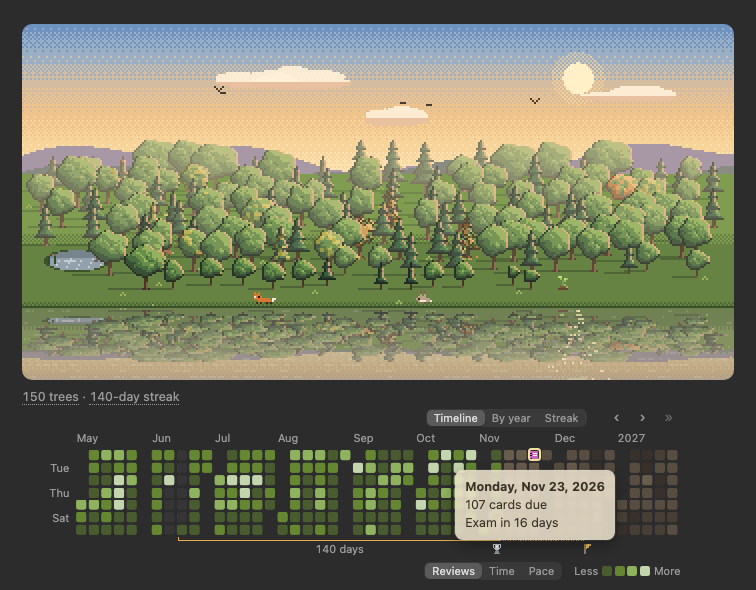
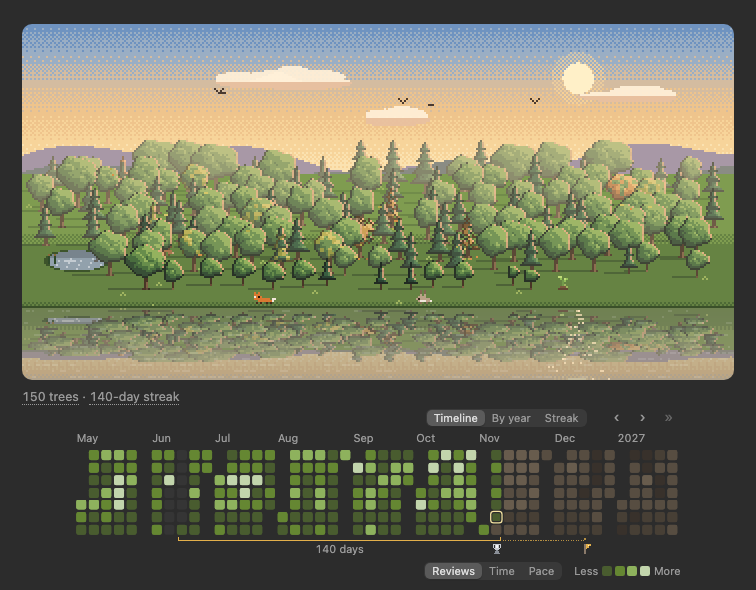
docs: update docs

Changed region(s): [[0.578, 0.7627, 0.8214, 0.9458], [0.0608, 0.7932, 0.0913, 0.8847]]

diff --git a/docs/ankiweb.html b/docs/ankiweb.html
@@ -2,7 +2,7 @@
 
 <b>To install:</b> in Anki, Tools › Add-ons › Get Add-ons, and paste the code <b>1255432496</b>.
 
-<div><img src="https://raw.githubusercontent.com/baraklevy20/memory-forest/main/docs/panel.png" alt="The forest by the lake at golden hour, with its study heatmap under it: days studied in green, a silver streak trophy, a goal flag, an exam marker with its tooltip open (Exam in 16 days), and cards coming due in brown"></div>
+<div><img src="https://raw.githubusercontent.com/baraklevy20/memory-forest/main/docs/panel.png" alt="The forest by the lake at golden hour, with its study heatmap under it: days studied in green, a silver streak trophy, a goal flag, and cards coming due in brown"></div>
 <div>&nbsp;</div>
 <b>How the forest grows</b>
 
@@ -17,6 +17,8 @@ So the forest is a picture of what you know: its size is how much you have learn
 <b>Your study heatmap</b>
 
 Your study days, streaks and upcoming reviews, in your scenery's colours. Hover for details; click a day to open its cards.
+
+<div><img src="https://raw.githubusercontent.com/baraklevy20/memory-forest/main/docs/heatmap_features.png" alt="Six parts of the heatmap: days selected with Shift-click and their trees lit up in the forest, Streak view with one streak across three years, the days shaded by pace, the day a rabbit came, the flag for the next goal, and an exam's tooltip counting down the days to it"></div>
 
 <ul>
 <li><b>Views</b>: a rolling timeline, a full year, or your whole streak at once.</li>

diff --git a/dev/docs_pictures.py b/dev/docs_pictures.py
@@ -1,15 +1,22 @@
-"""Draw the docs' panel, heatmap and layout pictures, docs/panel.png, docs/heatmap_sceneries.png and
-docs/layout.png, from this copy's scripts in headless Chrome, then the grid GIFs (dev/docs_grids.py).
+"""Draw the docs' panel, heatmap and layout pictures, docs/panel.png, docs/heatmap_features.png,
+docs/heatmap_sceneries.png and docs/layout.png, from this copy's scripts in headless Chrome, then the grid GIFs (dev/docs_grids.py).
 Uses made-up history unless --collection is supplied.
 
     python3 dev/docs_pictures.py      (npm run docs-pictures)
     python3 dev/docs_pictures.py --only layout
+    python3 dev/docs_pictures.py --only features
     python3 dev/docs_pictures.py --collection /path/to/collection.anki2
 
-panel.png: the pages' first picture, the panel as Anki shows it: the forest by the lake, with the
-animals of its first year, and its heatmap under it, visible streak labels, the current streak's
-silver trophy, its next goal's flag, and an upcoming exam with its tooltip open (the countdown to it).
-heatmap_sceneries.png: one heatmap in five sceneries, each beside its picker picture, with
+panel.png: the pages' first picture, the panel as Anki shows it, kept basic: the forest by the lake,
+with the animals of its first year, and its heatmap under it, visible streak labels, the current
+streak's silver trophy and its next goal's flag; no tooltip open and no marked day (the feature
+sheet shows those).
+heatmap_features.png: the heatmap section's first picture, six labelled crops of the real panel, each
+showing a feature: days Shift-selected and their trees lit, Streak view (one unbroken streak of almost
+three years over its rows), the days shaded by pace with the shade's switch and key, the day an animal
+came, the goal's flag, and a marked exam's countdown. Always on its own made-up history
+(FEATURES_HISTORY, even with --collection): the crops need its long streak.
+heatmap_sceneries.png: under it, one heatmap in five sceneries, each beside its picker picture, with
 its current trophy and flag and no other streak markers.
 layout.png: Anki's deck list with a made-up Japanese deck (made up with --collection too), Chalkboard beside it
 on the right and the heatmap Full width under them (Layout: One beside), arranged by the add-on's own web/core.js AF.arrange, at
@@ -72,15 +79,17 @@ SCENERIES = tuple(key for key, _tiles, _view in ROWS)
 YEARS_AWAY = ("bear", "squirrel", "eagle", "cabin")
 
 
-def history() -> dict:
+def history(length: int | None = None, streaks: tuple | None = None) -> dict:
     """The calendar's made-up days: reviews, time and each day's median seconds an answer (so Pace is
-    there to pick, as in the add-on), oldest first, and the cards due ahead."""
+    there to pick, as in the add-on), oldest first, and the cards due ahead; `length` days of them
+    with `streaks` (HISTORY and STREAKS unless given)."""
+    length, streaks = length or HISTORY, streaks or STREAKS
     r = random.Random(SEED)
     today = dt.date.today()
     days, time, pace = [], [], []
     pr = random.Random(SEED + 1)  # (the paces' own: the days' reviews and the cards due stay as they were)
-    for ago in range(HISTORY - 1, -1, -1):
-        studied = any(a <= ago <= b for a, b in STREAKS) or (ago > STREAKS[0][1] + 10 and r.random() < SCATTER)
+    for ago in range(length - 1, -1, -1):
+        studied = any(a <= ago <= b for a, b in streaks) or (ago > streaks[0][1] + 10 and r.random() < SCATTER)
         if not studied:
             days.append(0)
             time.append(0)
@@ -103,7 +112,7 @@ def history() -> dict:
             base *= 3.2
         n = r.randint(1, 3) if r.random() < 0.08 else int(base * r.uniform(0.6, 1.4))
         due.append(max(1, n))
-    return {"start": (today - dt.timedelta(days=HISTORY - 1)).isoformat(), "days": days, "time": time, "answerTime": pace, "due": due}
+    return {"start": (today - dt.timedelta(days=length - 1)).isoformat(), "days": days, "time": time, "answerTime": pace, "due": due}
 
 
 REAL_DATA = None
@@ -261,16 +270,6 @@ for (const j of jobs) {
   await p.waitForSelector('.af-cal-canvas', { timeout: 15000 });
   await new Promise(r => setTimeout(r, 1500));
   const el = await p.$(j.shoot);
-  if (j.tipDays !== undefined) {
-    // (a day's tooltip open in the shot: that day by the keyboard, as page_check does, today and then
-    // a day on per press; the pointer's hover didn't last until the shot)
-    await p.evaluate(() => { document.body.classList.add('af-shot-tip'); document.querySelector('.af-cal-canvas:not(.af-cal-past-weeks)').focus(); });
-    await p.keyboard.press('Home');
-    for (let i = 0; i < j.tipDays; i++) await p.keyboard.press('ArrowDown');
-    await new Promise(r => setTimeout(r, 1200));
-    if (!(await p.evaluate(m => { const t = document.querySelector('.af-cal-tip'); return !!t && !t.hidden && t.textContent.includes(m); }, j.tipHas)))
-      throw new Error('no tooltip saying ' + j.tipHas);
-  }
   if (j.fromMonth !== undefined) {
     const clip = await el.evaluate((e, month, pad) => {
       const r = e.getBoundingClientRect();
@@ -330,16 +329,230 @@ def sceneries_picture(shots: dict, out: str) -> None:
     sheet.save(out, optimize=True)
 
 
+# the heatmap section's feature sheet (heatmap_features.png): its own made-up history, a current streak
+# of almost three years unbroken (Streak view's rows), the second-longest (silver under today), and,
+# two months before it, an older and longer one (gold, so the flag waits ahead, two months on). Over
+# a month apart (calendar/history.js BROKE_LATELY), so Streak view shows the current one alone
+FEATURES_HISTORY = 2260
+FEATURES_STREAKS = ((0, 1040), (1100, 2200))
+# its forest: a tree on each day studied in the last FEATURES_TREES days, so the days selected light
+# trees that are there
+FEATURES_TREES = 230
+# each crop is this wide, at the panel's own pixels (two to a row, as wide as the panel); its edges
+# fade into the page this far, so what they cut reads as cut on purpose
+CROP_W, CROP_FADE = 370, 22
+# the sheet: its margin, the gap between crops, a label's line over each, in Nunito Bold (dev/fonts/,
+# as the grid GIFs have it) in a soft white
+SHEET_PAD, SHEET_GAP, LABEL_LINE, LABEL_PX, LABEL_FG = 12, 16, 26, 15, (236, 234, 228)
+FONT = os.path.join(HERE, "fonts", "Nunito", "Nunito[wght].ttf")
+# the panel's controls shown (they come with the pointer), and room under it for a tooltip
+SHOWN_CSS = (".af-cog { display: none !important } .af-cal-acts, .af-cal-key, .af-cal-foot > .af-cal-shade { opacity: 1 !important;"
+             " transition: none !important }")
+FEATURES_CSS = SHOWN_CSS + " #p { padding-bottom: 110px } body.af-shot-tip .af-cal-tip:not([hidden]) { display: block !important }"
+
+FEATURES_SHOOT = r"""
+import puppeteer from '%(puppeteer)s';
+import fs from 'fs';
+const job = %(job)s;
+const b = await puppeteer.launch({ executablePath: %(chrome)s, headless: 'new', args: ['--disable-gpu', '--allow-file-access-from-files'] });
+const p = await b.newPage();
+p.on('pageerror', e => console.log('ERR', e.message));
+const wait = ms => new Promise(r => setTimeout(r, ms));
+await p.setViewport({ width: 800, height: 1400 });
+await p.goto('file://' + job.page);
+await p.waitForSelector('.af-cal-canvas', { timeout: 15000 });
+await wait(1500);
+await p.evaluate(() => document.body.classList.add('af-shot-tip'));
+// each step: a click by script (the view, the shade), the days by the keyboard (as page_check does),
+// then the panel shot, with where its tooltip, the day's ring, the weeks and the footer are
+for (const s of job.steps) {
+  await p.evaluate(() => { if (document.activeElement) document.activeElement.blur(); });
+  await p.keyboard.press('Escape');
+  if (s.click) { await p.evaluate(q => document.querySelector(q).click(), s.click); await wait(500); }
+  if (s.keys) {
+    await p.evaluate(() => document.querySelector('.af-cal-canvas:not(.af-cal-past-weeks)').focus());
+    for (const k of s.keys) {
+      const [mod, key] = k.includes('+') ? k.split('+') : [null, k];
+      if (mod) await p.keyboard.down(mod);
+      await p.keyboard.press(key);
+      if (mod) await p.keyboard.up(mod);
+    }
+    await wait(800);
+    if (s.tipHas && !(await p.evaluate(m => { const t = document.querySelector('.af-cal-tip'); return !!t && !t.hidden && t.textContent.includes(m); }, s.tipHas)))
+      throw new Error(s.out + ': no tooltip saying ' + s.tipHas);
+  }
+  const el = await p.$('#p');
+  await el.screenshot({ path: s.out });
+  const rects = await p.evaluate(() => {
+    const base = document.querySelector('#p').getBoundingClientRect(), out = {};
+    for (const [k, q] of Object.entries({ tip: '.af-cal-tip', ring: '.af-cal-hover', grid: '.af-cal-grid', foot: '.af-cal-foot', scene: '.af-scene' })) {
+      const e = document.querySelector(q);
+      if (!e || e.hidden || !e.getClientRects().length) continue;
+      const r = e.getBoundingClientRect();
+      out[k] = [r.left - base.left, r.top - base.top, r.right - base.left, r.bottom - base.top];
+    }
+    return out;
+  });
+  fs.writeFileSync(s.out + '.json', JSON.stringify(rects));
+}
+await b.close();
+"""
+
+
+def features_data(mood: dict) -> dict:
+    """The panel on the feature sheet's history (FEATURES_*): a forest of a tree a day studied, its
+    animals each on its day, and an exam on a Monday two weeks ahead."""
+    hist = history(FEATURES_HISTORY, FEATURES_STREAKS)
+    n = len(hist["days"])
+    reviews = {n - 1 - i: v for i, v in enumerate(hist["days"])}
+    r = random.Random(SEED)
+    trees, prev = [], None
+    for ago in sorted((a for a in range(FEATURES_TREES) if reviews[a]), reverse=True):
+        t = fake_forest.tree(r, fake_forest.FAKE_TODAY - ago, ago)
+        if prev is not None and prev - ago > fake_forest.BREAK_DAYS:
+            t["gap"] = prev - ago - 1
+        prev = ago
+        trees.append(t)
+    streak = FEATURES_STREAKS[0][1] + 1
+    longest = FEATURES_STREAKS[1][1] - FEATURES_STREAKS[1][0] + 1
+    forest = fake_forest.make_forest(trees, streak, longest, len(trees) * fake_forest.FAKE_REVIEWS_PER_TREE, 186)
+    stats = dict(forest["stats"], streak=streak, longest_streak=longest)
+    visitors = [v for v in fake_forest.visitors(stats) if v["key"] not in YEARS_AWAY]
+    animals = milestones.for_page(milestones.animal_days(visitors, trees, reviews, fake_forest.FAKE_TODAY, True))
+    monday = dt.date.today() + dt.timedelta(days=(7 - dt.date.today().weekday()) % 7 or 7)
+    exam = {"day": (monday + dt.timedelta(days=14)).isoformat(), "icon": "exam", "name": "Exam"}
+    look = HL.page_look({}, mood)
+    cal = dict(hist, view="timeline", weekStart=1, shadeBy="reviews", animals=animals, browse=False, marks=[exam],
+               free=[], daysOff=[], streakFromStart=False, look=look)
+    data = dict(forest_data(mood), trees=trees, stats=stats, forestSeed=forest["forest_seed"],
+                visitors=milestones.for_page(visitors), calendar=cal, showForest=True)
+    data.pop("merged", None)
+    return data
+
+
+def features_steps(data: dict, tmp: str) -> list:
+    """The panel's states the sheet crops: (name, step), each shot to tmp/<name>.png."""
+    cal = data["calendar"]
+    rabbit = next(a["ago"] for a in cal["animals"] if a["key"] == "rabbit")
+    exam = (dt.date.fromisoformat(cal["marks"][0]["day"]) - dt.date.today()).days
+    # (today's weekday's row, counted from the week's first day: up to Monday's, the top row)
+    to_monday = (dt.date.today().weekday() - cal["weekStart"] + 1) % 7
+    steps = {
+        "rest": {},
+        "streak": {"click": '[data-view="streak"]'},
+        # (five weeks of August, their trees standing mid-forest, lit; the summary hidden in the crop)
+        "select": {"click": '[data-view="timeline"]', "keys": ["Home"] + ["ArrowLeft"] * 10 + ["ArrowUp"] * 2 + ["Shift+ArrowLeft"] * 4},
+        # (a Monday a week back: its tooltip over the weeks, clear of the footer's switch and key)
+        "pace": {"click": '[data-by="median"]', "keys": ["Home", "ArrowLeft"] + ["ArrowUp"] * to_monday, "tipHas": "per answer"},
+        "animal": {"click": '[data-by="reviews"]', "keys": ["Home"] + ["ArrowLeft"] * (rabbit // 7) + ["ArrowUp"] * (rabbit % 7), "tipHas": "rabbit"},
+        "exam": {"keys": ["Home"] + ["ArrowDown"] * exam, "tipHas": "Exam in"},
+    }
+    return [dict(s, name=k, out=os.path.join(tmp, k + ".png")) for k, s in steps.items()]
+
+
+def features_picture(tmp: str, out: str) -> None:
+    """Six labelled crops of the panel's shots, three rows of two, on Anki's dark page."""
+    from PIL import Image, ImageDraw, ImageFont
+    shot = {k: Image.open(os.path.join(tmp, k + ".png")).convert("RGB") for k in ("rest", "streak", "select", "pace", "animal", "exam")}
+    at = {k: json.load(open(os.path.join(tmp, k + ".png.json"), encoding="utf-8")) for k in shot}
+    W = shot["rest"].width
+    right = lambda k: int(min(W, at[k]["grid"][2] + 8))  # noqa: E731  (the weeks' right end, and a little)
+
+    def around(k: str) -> tuple:
+        """A crop round the tooltip and the day it is about, from the months' row down past the tooltip."""
+        tip, ring, grid = at[k]["tip"], at[k]["ring"], at[k]["grid"]
+        x0 = int(max(0, min(W - CROP_W, (min(tip[0], ring[0]) + max(tip[2], ring[2])) / 2 - CROP_W / 2)))
+        return (x0, int(grid[1]) - 2, x0 + CROP_W, int(max(tip[3], grid[3])) + 6)
+
+    g = at["rest"]["grid"]
+    scene = at["select"]["scene"]
+    sel_x0 = int(max(0, min(W - CROP_W, scene[0] + (scene[2] - scene[0]) * 0.18)))
+    cells = [
+        ("Shift-click days to light up their trees",
+         [("select", (sel_x0, int(scene[1] + (scene[3] - scene[1]) * 0.33), sel_x0 + CROP_W, int(scene[1] + (scene[3] - scene[1]) * 0.71))),
+          ("select", (sel_x0, int(g[1]) - 2, sel_x0 + CROP_W, int(g[3]) - 10))]),
+        ("Streak view: your whole streak at once",
+         # (from the rows' left end: each row's year, and the streak's length under the last)
+         [("streak", (int(at["streak"]["grid"][0]) - 4, int(at["streak"]["grid"][1]) - 2,
+                      int(at["streak"]["grid"][0]) - 4 + CROP_W, int(at["streak"]["grid"][3]) + 5))]),
+        ("Shade the days by reviews, time or pace",
+         [("pace", (int(min(W, at["pace"]["foot"][2] + 20)) - CROP_W, int(g[1]) - 2, int(min(W, at["pace"]["foot"][2] + 20)), int(at["pace"]["foot"][3]) + 4))]),
+        ("The day each animal came", [("animal", around("animal"))]),
+        ("A flag for your next goal", [("rest", (right("rest") - CROP_W, int(g[1]) - 2, right("rest"), int(g[3]) + 5))]),
+        ("Right-click a day to mark an exam or a trip", [("exam", around("exam"))]),
+    ]
+    bg = PAGE_BG
+
+    def cell(parts: list):
+        ims = [shot[k].crop(box) for k, box in parts]
+        h = sum(i.height for i in ims) + 6 * (len(ims) - 1)
+        im = Image.new("RGB", (CROP_W, h), bg)
+        y = 0
+        for i in ims:
+            im.paste(i, (0, y))
+            y += i.height + 6
+        mask = Image.new("L", im.size, 255)
+        d = ImageDraw.Draw(mask)
+        for x in range(CROP_FADE):
+            a = int(255 * (x + 1) / (CROP_FADE + 1))
+            d.line([(x, 0), (x, im.height)], fill=a)
+            d.line([(im.width - 1 - x, 0), (im.width - 1 - x, im.height)], fill=a)
+        return Image.composite(im, Image.new("RGB", im.size, bg), mask)
+
+    crops = [cell(parts) for _label, parts in cells]
+    rows = [crops[i:i + 2] for i in range(0, len(crops), 2)]
+    row_h = [max(c.height for c in r) for r in rows]
+    width = 2 * SHEET_PAD + 2 * CROP_W + SHEET_GAP
+    sheet = Image.new("RGB", (width, 2 * SHEET_PAD + sum(row_h) + len(rows) * LABEL_LINE + (len(rows) - 1) * SHEET_GAP), bg)
+    draw = ImageDraw.Draw(sheet)
+    font = ImageFont.truetype(FONT, LABEL_PX)
+    font.set_variation_by_axes([700])
+    y = SHEET_PAD
+    for r, row in enumerate(rows):
+        for k, im in enumerate(row):
+            x = SHEET_PAD + k * (CROP_W + SHEET_GAP)
+            draw.text((x + 4, y + 17), cells[2 * r + k][0], fill=LABEL_FG, font=font, anchor="ls")
+            # (each crop in the middle of its row's height: the taller one sets it)
+            sheet.paste(im, (x, y + LABEL_LINE + (row_h[r] - im.height) // 2))
+        y += LABEL_LINE + row_h[r] + SHEET_GAP
+    sheet.save(out, optimize=True)
+
+
+def features_shoot(tmp: str) -> None:
+    """The feature sheet's shots, in one Chrome, then the sheet (docs/heatmap_features.png)."""
+    lake = mood_of("golden_lake")
+    data = features_data(lake)
+    path = os.path.join(tmp, "features.html")
+    with open(path, "w", encoding="utf-8") as f:
+        # (the current streak's bracket and trophy alone, as on the panel picture: script_tags)
+        f.write(page(lake, data, 756, FEATURES_CSS))
+    job = {"page": path, "steps": features_steps(data, tmp)}
+    with tempfile.NamedTemporaryFile("w", suffix=".mjs", delete=False, encoding="utf-8") as f:
+        f.write(FEATURES_SHOOT % {"puppeteer": PUPPETEER, "job": json.dumps(job), "chrome": json.dumps(CHROME)})
+    try:
+        run = subprocess.run(["node", f.name], capture_output=True, text=True, timeout=600)
+    finally:
+        os.unlink(f.name)
+    print(run.stdout + run.stderr, end="")
+    if run.returncode:
+        raise SystemExit(run.returncode)
+    features_picture(tmp, os.path.join(DOCS, "heatmap_features.png"))
+
 def main() -> None:
     parser = argparse.ArgumentParser(description=__doc__)
     parser.add_argument("--collection", help="Use your own review history and forest (read-only)")
-    parser.add_argument("--only", choices=("heatmap", "layout"), help="Draw only the heatmap pictures, or only the layout one")
+    parser.add_argument("--only", choices=("heatmap", "features", "layout"),
+                        help="Draw only the panel and the heatmap pictures, only the feature sheet, or only the layout picture")
     args = parser.parse_args()
     if args.collection:
         collection_data(args.collection)
     lake = mood_of("golden_lake")
     with tempfile.TemporaryDirectory() as tmp:
         jobs = []
+        if args.only == "features":
+            features_shoot(tmp)
+            print("docs/heatmap_features.png")
+            return
         if args.only != "heatmap":
             # the layout: Chalkboard beside the deck list and its heatmap Full width under it (One beside), the page shot whole
             # with its margins, down to Anki's studied-today line
@@ -357,20 +570,17 @@ def main() -> None:
             shoot(jobs)
             print("docs/layout.png")
             return
-        # the big picture: the forest and its heatmap, with the streak labels unobstructed, and the
-        # animals its numbers bring but those that take years (left for people to find, as in the GIFs)
-        # (its exam on a Monday two weeks ahead, the heatmap's top row, its tooltip open with the countdown:
-        # under the top row it covers only days to come, and leaves the trophy and the flag in view)
-        monday = dt.date.today() + dt.timedelta(days=(7 - dt.date.today().weekday()) % 7 or 7)
-        note = {"day": (monday + dt.timedelta(days=14)).isoformat(), "icon": "exam", "name": "Exam"}
-        big = dict(forest_data(lake), calendar=calendar(lake, [note]), showForest=True)
+        # the big picture, kept basic: the forest and its heatmap, with the streak labels unobstructed,
+        # the heatmap's switches and key shown (they come with the pointer), and the animals its numbers
+        # bring but those that take years (left for people to find, as in the GIFs); no tooltip and no
+        # marked day (the feature sheet shows those)
+        big = dict(forest_data(lake), calendar=calendar(lake, []), showForest=True)
         if REAL_DATA is None:
             big["visitors"] = [v for v in milestones.for_page(fake_forest.visitors(big["stats"])) if v["key"] not in YEARS_AWAY]
         path = os.path.join(tmp, "big.html")
         with open(path, "w", encoding="utf-8") as f:
-            f.write(page(lake, big, 756, ".af-cog { display: none !important }"))
-        jobs.append({"page": path, "width": 800, "shoot": "#p", "tipDays": (dt.date.fromisoformat(note["day"]) - dt.date.today()).days,
-                     "tipHas": note["name"], "out": os.path.join(DOCS, "panel.png")})
+            f.write(page(lake, big, 756, SHOWN_CSS))
+        jobs.append({"page": path, "width": 800, "shoot": "#p", "out": os.path.join(DOCS, "panel.png")})
         # the sceneries: the heatmap alone, with only the current trophy and flag revealed
         shots = {}
         for key, tiles, view in ROWS:
@@ -386,7 +596,8 @@ def main() -> None:
                          "pad": 0 if tiles == "contours" else 2, "out": shots[key]})
         shoot(jobs)
         sceneries_picture(shots, os.path.join(DOCS, "heatmap_sceneries.png"))
-    print("docs/panel.png, docs/heatmap_sceneries.png" + ("" if args.only else ", docs/layout.png"))
+        features_shoot(tmp)
+    print("docs/panel.png, docs/heatmap_features.png, docs/heatmap_sceneries.png" + ("" if args.only else ", docs/layout.png"))
     if not args.only:
         subprocess.run([sys.executable, os.path.join(HERE, "docs_grids.py")], check=True)
 

diff --git a/README.md b/README.md
@@ -5,7 +5,7 @@ cards plants a tree below your deck list, and the heatmap under it shows the day
 your streak and the reviews ahead. There is nothing to click and nothing to manage: just study,
 and watch it grow.
 
-<p align="center"><img src="docs/panel.png" alt="The forest by the lake at golden hour, with its study heatmap under it: days studied in green, a silver streak trophy, a goal flag, an exam marker with its tooltip open (Exam in 16 days), and cards coming due in brown"></p>
+<p align="center"><img src="docs/panel.png" alt="The forest by the lake at golden hour, with its study heatmap under it: days studied in green, a silver streak trophy, a goal flag, and cards coming due in brown"></p>
 
 **[Get it on AnkiWeb](https://ankiweb.net/shared/info/1255432496)** · add-on code `1255432496`
 
@@ -27,6 +27,8 @@ studying and animals move in, and after a year a little cabin appears at the edg
 
 Your study days, streaks and upcoming reviews, in your scenery's colours. Hover for details;
 click a day to open its cards.
+
+<p align="center"><img src="docs/heatmap_features.png" width="640" alt="Six parts of the heatmap: days selected with Shift-click and their trees lit up in the forest, Streak view with one streak across three years, the days shaded by pace, the day a rabbit came, the flag for the next goal, and an exam's tooltip counting down the days to it"></p>
 
 - **Views**: a rolling timeline, a full year, or your whole streak at once.
 - **Select days**: Shift-click or Ctrl/Cmd-click days to light up their trees, then click one to open all their cards.
